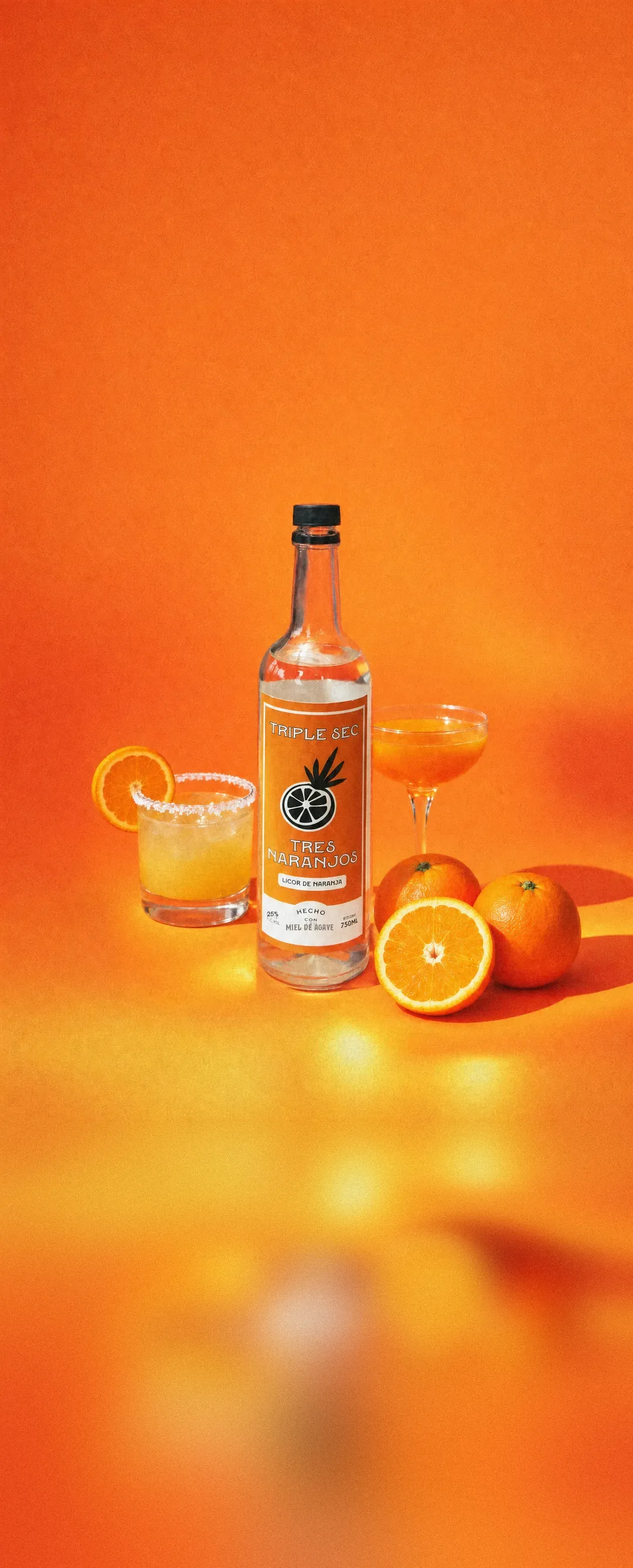
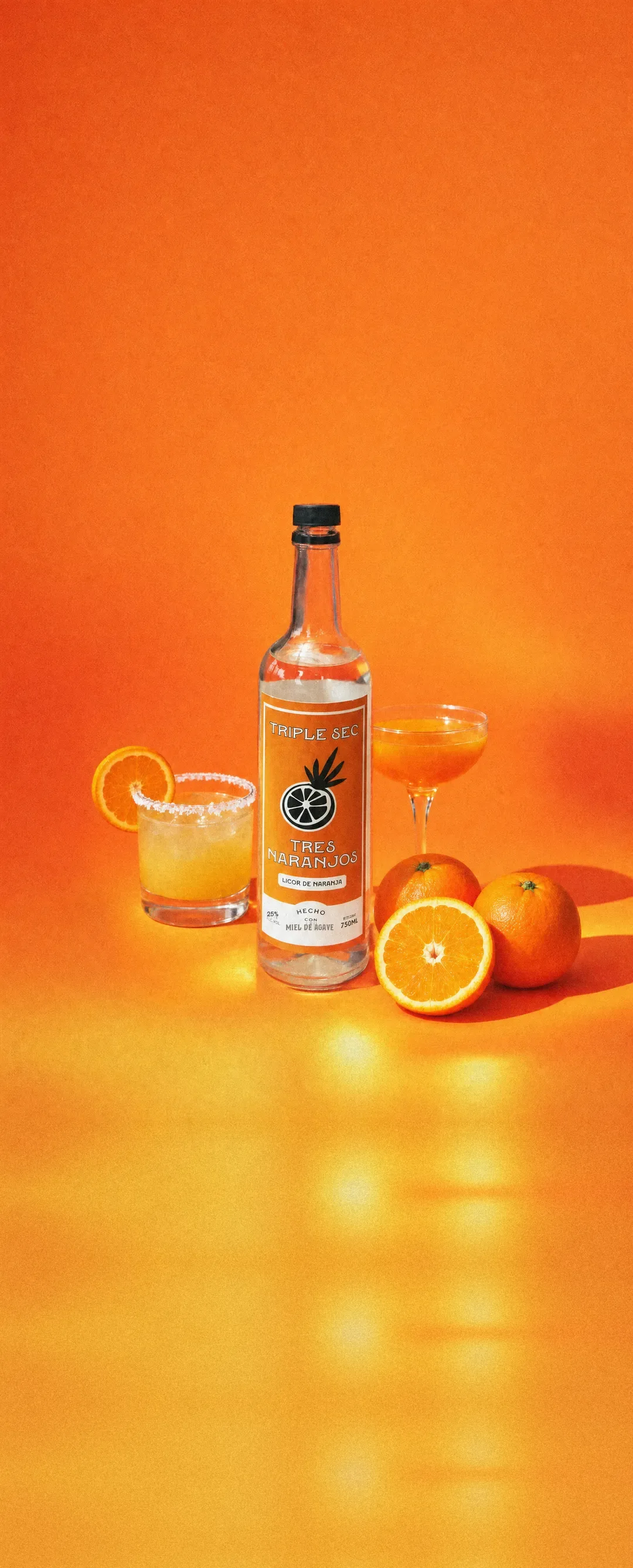
Mobile hero: sharper photo base, lighter fade, headline closer to the button
Claude-Session: https://claude.ai/code/session_01K3gZmNNFAoCCbQ8d9pkyRB

Changed region(s): [[0.0, 0.7455, 1.0, 1.0]]

diff --git a/site/index.html b/site/index.html
@@ -1469,11 +1469,11 @@ function fallback(m){const ta=document.createElement('textarea');ta.value=m;ta.s
   :root .hero.hero--photo{--S:max(calc((100svh - 330px)*3.257),247.5vw);background-image:url("assets/hero-mobile-tall.webp")!important;
     background-size:auto var(--S)!important;background-position:center calc(86px - .322*var(--S))!important;padding-bottom:calc(28px + env(safe-area-inset-bottom,0px))!important}
   :root .hero.hero--photo::before{content:""!important;position:absolute;inset:0;z-index:0;pointer-events:none;
-    background:linear-gradient(to top,rgba(176,62,10,.26) 0,rgba(176,62,10,.16) 18%,rgba(176,62,10,.07) 34%,rgba(176,62,10,0) 50%)!important}
+    background:linear-gradient(to top,rgba(176,62,10,.14) 0,rgba(176,62,10,.06) 20%,rgba(176,62,10,0) 40%)!important}
   .hero--photo .hero-origin,.hero--photo .hero-sub,.hero--photo .hero-ctas .btn--ghost{display:none!important}
-  .hero--photo .hero-copy{justify-content:flex-end;width:100%!important;max-width:none!important;align-self:stretch!important}
+  .hero--photo .hero-copy{justify-content:flex-end;gap:0!important;width:100%!important;max-width:none!important;align-self:stretch!important}
   .hero--photo h1{max-width:none!important}
-  .hero--photo h1{margin:0 0 .45em!important;text-shadow:0 2px 18px rgba(60,20,5,.25)}
+  .hero--photo h1{margin:0 0 .3em!important;text-shadow:0 2px 18px rgba(60,20,5,.25)}
   html body #hero.hero--photo h1{font-size:12.7vw!important;line-height:.95!important}
   .hero--photo .hero-ctas{margin-top:0!important;grid-template-columns:1fr!important;display:grid!important}
   .hero--photo .hero-ctas .btn-wrap,.hero--photo .hero-ctas .btn-wrap .btn{display:flex!important;width:100%!important;justify-content:center}
